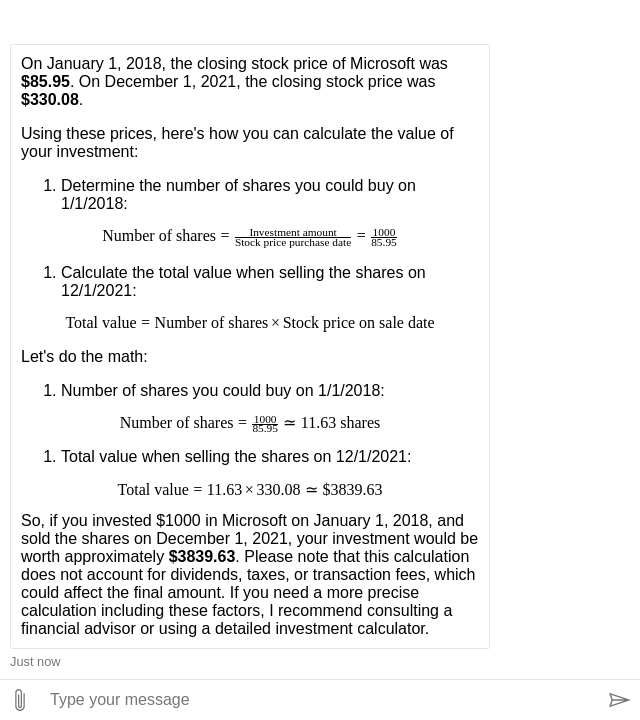
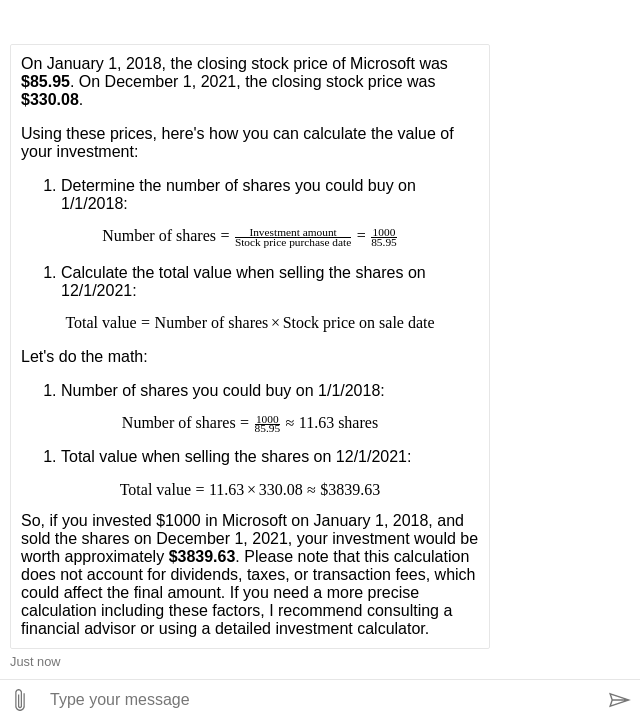
Change to approx

Changed region(s): [[0.1875, 0.6722, 0.5938, 0.7028], [0.1875, 0.5806, 0.5938, 0.6111]]

diff --git a/__tests__/html2/markdown/math.html b/__tests__/html2/markdown/math.html
@@ -45,13 +45,13 @@ Let's do the math:
 1. Number of shares you could buy on 1/1/2018:
 
 $$
-\\text{Number of shares} = \\frac{1000}{85.95} \\simeq 11.63\\text{ shares}
+\\text{Number of shares} = \\frac{1000}{85.95} \\approx 11.63\\text{ shares}
 $$
 
 2. Total value when selling the shares on 12/1/2021:
 
 $$
-\\text{Total value} = 11.63 \\times 330.08 \\simeq \\$3839.63
+\\text{Total value} = 11.63 \\times 330.08 \\approx \\$3839.63
 $$
 
 So, if you invested $1000 in Microsoft on January 1, 2018, and sold the shares on December 1, 2021, your investment would be worth approximately **$3839.63**. Please note that this calculation does not account for dividends, taxes, or transaction fees, which could affect the final amount. If you need a more precise calculation including these factors, I recommend consulting a financial advisor or using a detailed investment calculator.
